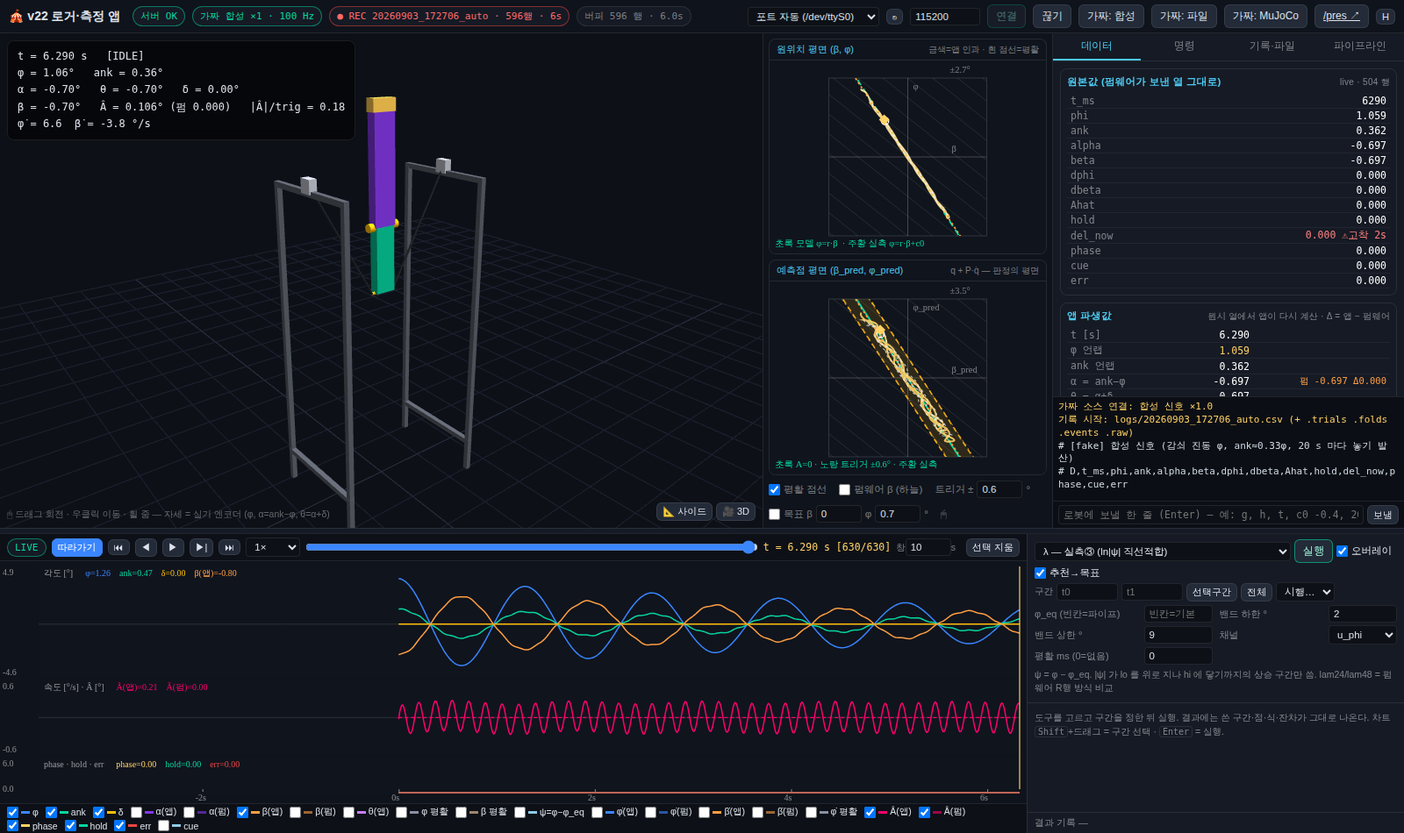
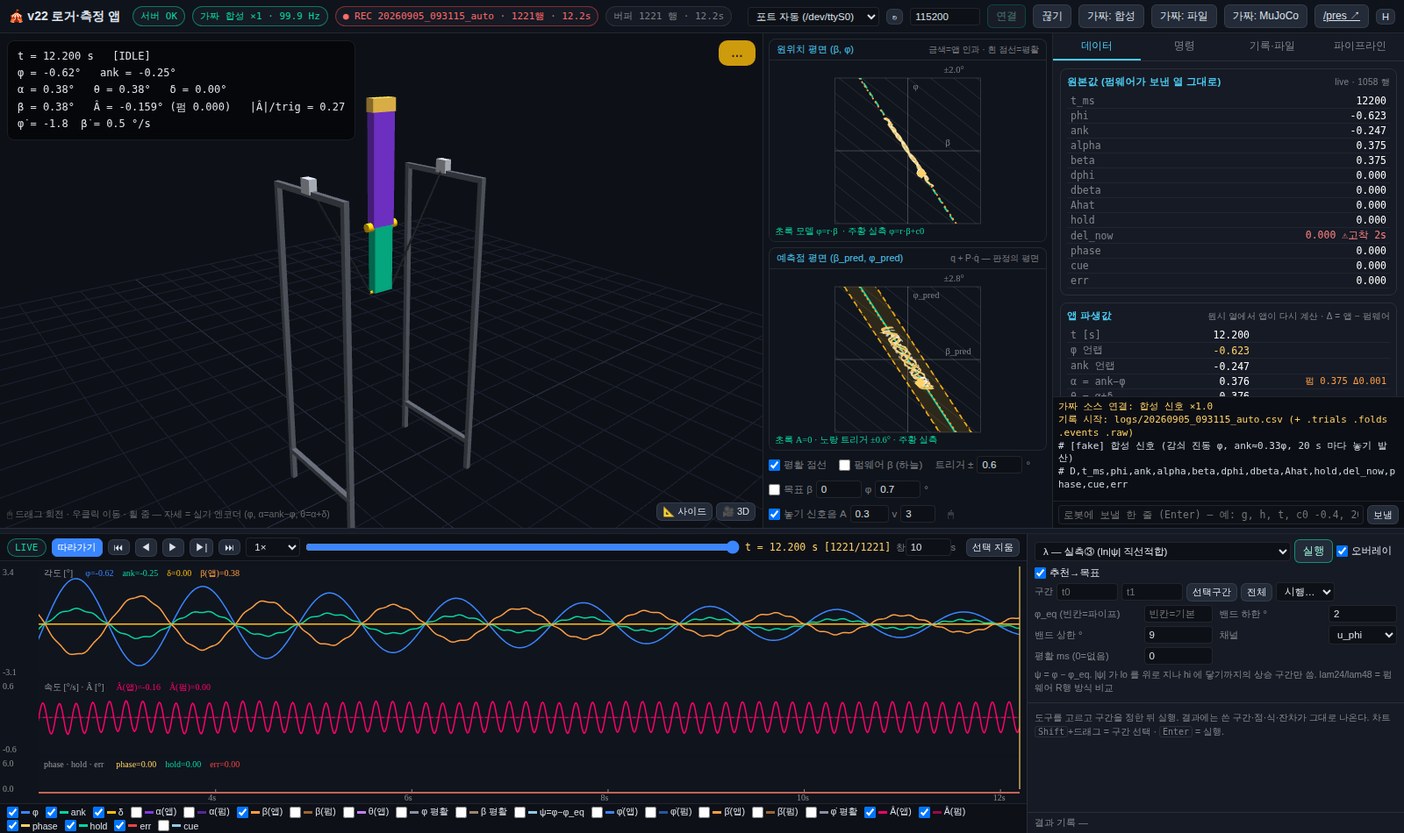
v22_raw v3: fphi/fank upright conversion, g guarantees torque, FALLA + stat counters; app release cue (beep)
Real-robot first connection findings (2026-09-05):
- firmware alpha was 180 deg off (app ank_off only affects the app) -> fphi/fank params (+180, wrap)
- v2 enabled torque only after a fall, so incremental-fold goals went to a torque-off motor -> g now
  restores home/torque like hangcal torqueRestoreHere (refuses only if the position read returns 0)
- E,FALL now followed by E,FALLA (alpha); '# stat' line every 5 s and in 't': loop_max, dxl_max,
  dxl_fail, wr_fail. No safety devices added (user policy: verify basic behavior first)
- app: release cue in lg_panels (logger + lab): target reached or |Ahat|<A, hand still for 0.3 s ->
  two beeps + green banner; re-beeps after E,GO; judges only, sends nothing
- firmware/hostcheck: g++ stub syntax check for the .ino (toolchain unavailable here)
- commands.json / mujoco_source: fphi, fank params; docs (bring-up 4-1, 4-5, troubleshooting, README, CLAUDE.md x2)

Claude-Session: https://claude.ai/code/session_01R1tYTbHm1MpVPBUC4nDtYR

diff --git a/v22_logger/static/lg_panels.js b/v22_logger/static/lg_panels.js
@@ -395,6 +395,35 @@ s_*     = 중심 이동평균(smooth_ms) + 중앙차분 (비인과, 지연 0)`;
     window.addEventListener("mouseup", () => { if (d0) { LG.store.set("bottomH", parseInt(getComputedStyle(document.documentElement).getPropertyValue("--bottomH")) || null); d0 = null; } });
   })();
 
+  // ================= 놓기 신호음 (g → 삐 → 놓기) =================
+  // 손에 든 채 조건이 0.3 s 유지되면 삐 두 번 — 그때 놓는다. 조건: 목표 십자선 ON 이면 목표 ±0.2° + 손 멎음, 아니면 |Â| < A + 손 멎음.
+  // 펌웨어 GO(E행) 가 오면 다시 한 번 울린다 (g 를 누른 뒤의 신호가 진짜 신호). 판단만 하고 로봇에는 아무것도 보내지 않는다.
+  const CUE = { since: 0, beeped: false, ctx: null, evN: -1 };
+  function audio() { try { if (!CUE.ctx) CUE.ctx = new (window.AudioContext || window.webkitAudioContext)(); if (CUE.ctx.state === "suspended") CUE.ctx.resume(); } catch (e) {} return CUE.ctx; }
+  document.addEventListener("pointerdown", () => audio(), true);
+  LG.beep = function (n) {
+    const c = audio(); if (!c) return; let t = c.currentTime + 0.01;
+    for (let k = 0; k < (n || 2); k++) { const o = c.createOscillator(), g = c.createGain(); o.type = "square"; o.frequency.value = k ? 1320 : 880; o.connect(g); g.connect(c.destination);
+      g.gain.setValueAtTime(0.0001, t); g.gain.exponentialRampToValueAtTime(0.35, t + 0.01); g.gain.exponentialRampToValueAtTime(0.0001, t + 0.13); o.start(t); o.stop(t + 0.14); t += 0.17; }
+  };
+  function cueTick(i, p) {
+    const box = el("goCue"); if (!box) return;
+    if (!el("cBeep") || !el("cBeep").checked || !LG.link.connected || !LG.follow) { box.className = ""; box.textContent = ""; CUE.since = 0; return; }
+    const ev = LG.aux.events || []; if (ev.length !== CUE.evN) { if (CUE.evN >= 0 && ev.length && ev[ev.length - 1][1] === "GO") CUE.beeped = false; CUE.evN = ev.length; }
+    const A = LG.val("a_Ahat", i), vf = Math.abs(LG.val("a_dphi", i)), vb = Math.abs(LG.val("a_dbeta", i));
+    const aOk = +el("iBeepA").value || 0.3, vOk = +el("iBeepV").value || 3, still = vf < vOk && vb < vOk;
+    let ready, what;
+    if (el("cTgt").checked) { const db = LG.val("a_beta", i) - (+el("iTgtB").value || 0), df = p.phi - (+el("iTgtF").value || 0); ready = Math.abs(db) < 0.2 && Math.abs(df) < 0.2 && still; what = `목표 Δβ ${fmt(db)} Δφ ${fmt(df)}`; }
+    else { ready = isFinite(A) && Math.abs(A) < aOk && still; what = `|Â| ${fmt(Math.abs(A))} < ${aOk}`; }
+    const ph = LG.val("phase", i), armed = isFinite(ph) && (ph | 0) <= 2;
+    const now = performance.now();
+    if (!ready) { CUE.since = 0; CUE.beeped = false; box.className = "wait"; box.textContent = `잡고 멎기 · ${what}${still ? "" : " · 손 흔들림"}`; return; }
+    if (!CUE.since) CUE.since = now;
+    if (now - CUE.since < 300) { box.className = "wait"; box.textContent = "…"; return; }
+    box.className = "on"; box.textContent = armed ? "● 놓기!" : "● 놓기 (비무장 — g 먼저?)";
+    if (!CUE.beeped) { CUE.beeped = true; LG.beep(2); }
+  }
+
   // ================= 프레임 루프 =================
   let lastRead = 0;
   function frame() {
@@ -411,6 +440,7 @@ s_*     = 중심 이동평균(smooth_ms) + 중앙차분 (비인과, 지연 0)`;
         if (el("cTgt").checked) { const tb = +el("iTgtB").value || 0, tf = +el("iTgtF").value || 0, db = LG.val("a_beta", i) - tb, df = p.phi - tf;
           tgt = `\n목표 (β ${tb.toFixed(1)}, φ ${tf.toFixed(1)}) 까지  Δβ ${db >= 0 ? "+" : ""}${fmt(db)}  Δφ ${df >= 0 ? "+" : ""}${fmt(df)}  ${Math.abs(db) < 0.2 && Math.abs(df) < 0.2 ? "● 놓아도 됨" : "○"}`; }
         el("ov3d").textContent = `t = ${fmt(LG.tOf(i), 3)} s   [${isFinite(ph) ? LG.phaseName(ph) : "—"}]\nφ = ${fmt(p.phi)}°   ank = ${fmt(LG.val("u_ank", i))}°\nα = ${fmt(p.alpha)}°   θ = ${fmt(p.theta)}°   δ = ${fmt(LG.val("del", i))}°\nβ = ${fmt(LG.val("a_beta", i))}°   Â = ${fmt(A, 3)}° (펌 ${fmt(Af, 3)})   |Â|/trig = ${fmt(Math.abs(A) / LG.trig, 2)}\nφ̇ = ${fmt(LG.val("a_dphi", i), 1)}  β̇ = ${fmt(LG.val("a_dbeta", i), 1)} °/s` + tgt;
+        cueTick(i, p);
         el("tTime").textContent = `t = ${fmt(LG.tOf(i), 3)} s  [${i + 1}/${LG.ds.n}]`;
         if (LG.follow) el("sIdx").value = LG.ds.n - 1; else el("sIdx").value = i;
         updateTables();

diff --git a/v22_logger/static/logger.html b/v22_logger/static/logger.html
@@ -101,6 +101,7 @@ body.hide .right,body.hide .an{display:none}
 body.hide .main{grid-template-columns:minmax(0,1fr) 380px}
 body.hide .bottom{grid-template-columns:minmax(0,1fr)}
 kbd{font-family:Consolas,monospace;font-size:10px;border:1px solid var(--border);border-radius:3px;padding:0 3px;color:var(--dim)}
+#goCue{position:absolute;right:8px;top:8px;padding:6px 14px;border-radius:10px;font:700 20px/1.2 "Segoe UI","Malgun Gothic",sans-serif;display:none;pointer-events:none;white-space:nowrap}#goCue.on{display:block;background:rgba(6,214,160,.92);color:#04281c}#goCue.wait{display:block;background:rgba(255,190,11,.8);color:#3a2a00;font-size:14px;font-weight:600}
 </style>
 </head>
 <body>
@@ -127,6 +128,7 @@ kbd{font-family:Consolas,monospace;font-size:10px;border:1px solid var(--border)
  <div class="sim">
   <canvas id="c3d"></canvas>
   <div id="ov3d"></div>
+  <div id="goCue"></div>
   <div class="simhint">🖱 드래그 회전 · 우클릭 이동 · 휠 줌 — 자세 = 실기 엔코더 (φ, α=ank−φ, θ=α+δ)</div>
   <div class="simbtns"><button class="btn sm" id="bCamSide">📐 사이드</button><button class="btn sm" id="bCamIso">🎥 3D</button></div>
  </div>
@@ -138,6 +140,7 @@ kbd{font-family:Consolas,monospace;font-size:10px;border:1px solid var(--border)
    <label class="chk"><input type="checkbox" id="cPlFw">펌웨어 β (하늘)</label>
    <label class="chk">트리거 ±<input id="iTrig" type="number" value="0.6" step="0.1" style="width:52px">°</label>
    <label class="chk" title="놓기 목표점 — 평면에 십자선, 3D 판독에 목표까지 Δ"><input type="checkbox" id="cTgt">목표 β<input id="iTgtB" type="number" value="0" step="0.1" style="width:52px"> φ<input id="iTgtF" type="number" value="0.7" step="0.1" style="width:52px">°</label>
+   <label class="chk" title="놓기 신호음 — 조건이 0.3 s 유지되면 삐 두 번, 그때 놓는다. 조건: 목표 십자선이 켜져 있으면 목표 ±0.2° 도달 + 손 멎음(|φ̇|,|β̇| < v), 아니면 |Â| < A + 손 멎음. g(무장) 뒤 다시 한 번 울린다"><input type="checkbox" id="cBeep" checked>놓기 신호음 A<input id="iBeepA" type="number" value="0.3" step="0.1" style="width:44px"> v<input id="iBeepV" type="number" value="3" step="1" style="width:40px"></label>
    <span title="휠 줌 · 우클릭 이동 · 더블클릭 복귀">🖱</span>
   </div>
  </div>

diff --git a/v22_logger/static/lab.html b/v22_logger/static/lab.html
@@ -123,6 +123,7 @@ body.hide .bottom{grid-template-columns:minmax(0,.9fr) minmax(0,1.3fr)}
 kbd{font-family:Consolas,monospace;font-size:10px;border:1px solid var(--border);border-radius:3px;padding:0 3px;color:var(--dim)}
 dialog{border:1px solid #d9dee7;border-radius:10px;padding:14px 16px;font-size:12.5px}
 dialog textarea{width:520px;height:220px;font:11px Consolas,monospace}
+#goCue{position:absolute;right:8px;top:8px;padding:6px 14px;border-radius:10px;font:700 20px/1.2 "Segoe UI","Malgun Gothic",sans-serif;display:none;pointer-events:none;white-space:nowrap}#goCue.on{display:block;background:rgba(6,214,160,.92);color:#04281c}#goCue.wait{display:block;background:rgba(255,190,11,.8);color:#3a2a00;font-size:14px;font-weight:600}
 </style>
 </head>
 <body>
@@ -150,6 +151,7 @@ dialog textarea{width:520px;height:220px;font:11px Consolas,monospace}
  <div class="sim">
   <canvas id="c3d"></canvas>
   <div id="ov3d"></div>
+  <div id="goCue"></div>
   <div class="simhint">🖱 드래그 회전 · 우클릭 이동 · 휠 줌 — 자세 = 실기 엔코더</div>
   <div class="simbtns"><button class="btn sm" id="bCamSide">📐 사이드</button><button class="btn sm" id="bCamIso">🎥 3D</button></div>
  </div>
@@ -161,6 +163,7 @@ dialog textarea{width:520px;height:220px;font:11px Consolas,monospace}
    <label class="chk"><input type="checkbox" id="cPlFw">펌 β</label>
    <label class="chk">trig<input id="iTrig" type="number" value="0.6" step="0.1" style="width:48px"></label>
    <label class="chk" title="놓기 목표점 — 십자선, 3D 판독에 목표까지 Δ"><input type="checkbox" id="cTgt">목표 β<input id="iTgtB" type="number" value="0" step="0.1" style="width:48px"> φ<input id="iTgtF" type="number" value="0.7" step="0.1" style="width:48px"></label>
+   <label class="chk" title="놓기 신호음 — 조건이 0.3 s 유지되면 삐 두 번, 그때 놓는다. 조건: 목표 십자선이 켜져 있으면 목표 ±0.2° 도달 + 손 멎음(|φ̇|,|β̇| < v), 아니면 |Â| < A + 손 멎음. g(무장) 뒤 다시 한 번 울린다"><input type="checkbox" id="cBeep" checked>놓기 신호음 A<input id="iBeepA" type="number" value="0.3" step="0.1" style="width:44px"> v<input id="iBeepV" type="number" value="3" step="1" style="width:40px"></label>
   </div>
  </div>
  <div class="xl">

diff --git a/v22_logger/firmware/hostcheck/Arduino.h b/v22_logger/firmware/hostcheck/Arduino.h
@@ -1,0 +1,20 @@
+// 호스트 문법검사용 최소 스텁 (OpenCR + Dynamixel2Arduino API 표면만)
+#pragma once
+#include <stdint.h>
+#include <string.h>
+#include <stdlib.h>
+#include <math.h>
+#define OUTPUT 1
+#define HIGH 1
+#define LOW 0
+#define HEX 16
+#define BDPIN_DXL_PWR_EN 32
+void pinMode(int, int); void digitalWrite(int, int); void delay(unsigned long); void delayMicroseconds(unsigned int);
+unsigned long millis(); unsigned long micros();
+struct HardwareSerial {
+  void begin(unsigned long); int available(); int read();
+  size_t print(const char*); size_t print(char); size_t print(int); size_t print(unsigned int); size_t print(long); size_t print(unsigned long); size_t print(float, int = 2); size_t print(double, int = 2);
+  size_t println(); size_t println(const char*); size_t println(char); size_t println(int); size_t println(unsigned int); size_t println(long); size_t println(unsigned long); size_t println(float, int = 2); size_t println(double, int = 2);
+  size_t print(int, int); size_t println(int, int); size_t print(long, int); size_t println(long, int);
+};
+extern HardwareSerial Serial, Serial3;

diff --git a/v22_logger/firmware/hostcheck/Dynamixel2Arduino.h b/v22_logger/firmware/hostcheck/Dynamixel2Arduino.h
@@ -1,0 +1,13 @@
+#pragma once
+#include "Arduino.h"
+namespace ControlTableItem { enum { RETURN_DELAY_TIME, PROFILE_VELOCITY, PROFILE_ACCELERATION, CURRENT_LIMIT, HARDWARE_ERROR_STATUS, PRESENT_INPUT_VOLTAGE, PRESENT_CURRENT, PRESENT_POSITION, GOAL_POSITION, TORQUE_ENABLE }; }
+enum { OP_EXTENDED_POSITION = 4, OP_POSITION = 3, OP_CURRENT = 0 };
+struct Dynamixel2Arduino {
+  Dynamixel2Arduino(HardwareSerial&, int);
+  void setPortProtocolVersion(float); void begin(unsigned long); bool ping(uint8_t);
+  bool torqueOn(uint8_t); bool torqueOff(uint8_t); bool setOperatingMode(uint8_t, uint8_t);
+  bool writeControlTableItem(uint8_t item, uint8_t id, int32_t data, uint32_t timeout = 10);
+  int32_t readControlTableItem(uint8_t item, uint8_t id, uint32_t timeout = 10);
+  float getPresentPosition(uint8_t id, uint8_t unit = 0); bool setGoalPosition(uint8_t id, float value, uint8_t unit = 0);
+  bool getTorqueEnableStat(uint8_t id);
+};

diff --git a/v22_logger/mujoco_source.py b/v22_logger/mujoco_source.py
@@ -70,6 +70,8 @@ PARAM_TABLE = [
     ("wf", 0.1945, 0.0, 2.0, "수동 w φ̇"),
     ("wb", 0.3049, 0.0, 2.0, "수동 w β̇"),
     ("p2r", 0.4285, 0.05, 0.95, "β = α + P2R·δ"),
+    ("fphi", 0.0, 0.0, 1.0, "φ 직립 변환 +180 (가상 로봇은 무시)"),
+    ("fank", 0.0, 0.0, 1.0, "발목 직립 변환 +180 (가상 로봇은 무시)"),
     ("loghz", 100.0, 1.0, 200.0, "CSV 주기 [Hz]"),
     ("ftol", 2.0, 0.1, 10.0, "접기 도착 판정 [deg]"),
     ("ftmax", 300.0, 20.0, 800.0, "FOLD 상한 [ms]"),

diff --git a/v22_logger/firmware/hostcheck/_t.cpp b/v22_logger/firmware/hostcheck/_t.cpp
@@ -1,3 +1,4 @@
+#include "Arduino.h"
 /*
  * v22_raw.ino — v22 로거·측정 앱 전용 펌웨어 (원시값 스트리밍 + 접기 실험) — 2026-09-05 v3
  *   v3: fphi/fank(+180 직립 변환, 매달림 영점 뒤 세울 때) · g 가 토크를 반드시 켠다(꺼져 있으면 접기 명령이 허공에 갔다, hangcal torqueRestoreHere 계승)

diff --git a/v22_logger/firmware/hostcheck/SPI.h b/v22_logger/firmware/hostcheck/SPI.h
@@ -1,0 +1,7 @@
+#pragma once
+#include "Arduino.h"
+#define MSBFIRST 1
+#define SPI_MODE1 1
+struct SPISettings { SPISettings(unsigned long, int, int); };
+struct SPIClass { void begin(); void beginTransaction(SPISettings); void endTransaction(); uint16_t transfer16(uint16_t); };
+extern SPIClass SPI;

diff --git a/docs/v22_실물_브링업_절차_20260902.md b/docs/v22_실물_브링업_절차_20260902.md
@@ -45,8 +45,10 @@ python server.py --fake            ← 합성 신호로 화면 확인
 
 ## 3. 측정 전용 펌웨어 `v22_raw` 올리기 (선택 — 2 가 되면 언제든)
 
-`v22_logger/firmware/v22_raw/v22_raw.ino`. 제어(접기) 없음. 원시값 + 영점 전 14비트 원각 + 서보 tick 을 찍는다.
-**여기서는 컴파일을 못 해 봤다** (툴체인 다운로드가 막혀 있다). 호스트 문법검사만 통과. 실기 I/O 코드는 incremental_fold_min 에서 그대로다.
+`v22_logger/firmware/v22_raw/v22_raw.ino` (**v3, 2026-09-05**). 측정(mode 0) + 단일접기(mode 1) + 증분접기(mode 2). 원시값 + 영점 전 14비트 원각 + 서보 tick 을 찍는다.
+**여기서는 컴파일을 못 해 봤다** (툴체인 다운로드가 막혀 있다). 호스트 문법검사(`bash firmware/hostcheck/check.sh firmware/v22_raw/v22_raw.ino`)만 통과. 실기 I/O 코드는 incremental_fold_min 에서 그대로다.
+
+v3 에서 바뀐 것 (9/5 실기 관찰로): ① `fphi`/`fank` 직립 변환(아래 4-1) — 없으면 펌웨어 α 가 180° 틀어져 `g` 첫 루프에 FALL. ② **`g` 가 토크를 반드시 켠다** — v2 는 넘어진 뒤에만 켜서, 매달림 영점(토크 OFF) → 세움 → g 순서에서 접기 명령이 허공에 갔다("FOLD 는 찍히는데 로봇은 안 움직임"). ③ FALL 에 α 도 기록(`E,FALLA`). ④ 5 s 마다 `# stat loop_max … dxl_max … dxl_fail … wr_fail …` 계측 한 줄, `t` 에도. **안전장치(무장 유예·폴링 감속·폴링 중단 등)는 넣지 않았다** — 기본 동작을 먼저 본 뒤 하나씩 (사용자 방침 9/5).
 
 1. 아두이노 IDE: 보드 **OpenCR**, 라이브러리 **Dynamixel2Arduino** 설치 확인. 스케치 열고 **컴파일(검증)**. 오류가 나면 **오류 메시지 전체를 나에게** — 바로 고친다.
 2. 앱 「끊기」 → 업로드 → 앱 「연결」. 콘솔에 `# v22_raw — …` 배너와 `# D,…` 17열 헤더. 「명령」탭 프로파일을 **v22_raw** 로.
@@ -60,6 +62,7 @@ python server.py --fake            ← 합성 신호로 화면 확인
 - **u 토크해제** → 줄에 완전히 늘어뜨림 → 왼쪽에서 접근해 **완전히 멎으면 z** → 오른쪽에서 접근해 멎으면 **z** (v22_raw: 2단 원형 평균, 콘솔에 데드밴드 표시. hangcal 도 같은 2단).
 - 세운다. 원본값 phi 가 ±180 근처면 정상(φ 채널이 도는 것, 문서 66 §4). 앱 「파이프라인」탭 **phi_off = 180** 적용 → u_phi 가 0 근처. (hangcal 은 펌웨어 `fphi 1` 도 가능.)
 - 직립에서 u_phi·u_ank·a_alpha 전부 0 근처인지. 이 값이 c₀·φ_eq 의 기준이다 — 재조립하면 다시.
+- ★**펌웨어에도 같은 변환을 넣는다**: 콘솔 `fank 1`(발목이 180° 돌아 있을 때), φ 채널도 돌아 있으면 `fphi 1`. 앱의 ank_off/phi_off 는 앱 표시만 바꾸고 펌웨어 α·β·Â 는 못 바꾼다. 확인: 「데이터」탭 alpha 의 `펌 …  Δ…` 가 0 근처. 이걸 빼먹으면 `g` 첫 루프에 `E,FALL`(φ 는 멀쩡, `E,FALLA` 의 α 가 ±180).
 
 ### 4-2. 매달림 자유흔들기 (ω_n, ζ, c_φ) — 문서 16 정본과 대조
 - 토크 해제로 매달아 φ 4~5° 로 흔들고 손을 뗀다. 20~30 s 기록.
@@ -75,6 +78,16 @@ python server.py --fake            ← 합성 신호로 화면 확인
 - 10회 넘으면 **φ_eq 훑기**(방향별 λ 곡선의 교점) → 파이프라인 phi_eq 에 넣고 다시 시행 나누기 → 방향 갈림이 20 % 아래로 오는지.
 - **놓기 경계** 도구: 놓기점이 원위치 평면에 방향색으로 찍히고 r 고정 절편 c₀ 가 나온다. 다음 시행을 어디에 놓을지(경계에 수직으로 흩기) 평면에서 바로 본다.
 
+### 4-5. g → 삐 → 놓기 (놓기 신호음, 9/5)
+
+"g 직후 바로 놓는다"를 사람 타이밍에 맡기지 않는다. 앱(로거·측정실 왼쪽 위 「놓기 신호음」, 기본 ON)이 D행을 보고 **조건이 0.3 s 유지되면 삐 두 번**을 울리고 3D 창 오른쪽 위에 초록 「● 놓기!」를 띄운다. 그때 놓는다.
+
+- 조건: 목표 십자선이 켜져 있으면 **목표 ±0.2° 도달 + 손 멎음**(|φ̇|,|β̇| < v, 기본 3 °/s). 꺼져 있으면 **|Â| < A**(기본 0.3°) **+ 손 멎음**. 조건이 깨지면 노란 「잡고 멎기 · …」로 이유를 보인다.
+- 펌웨어 `E,GO` 가 오면 한 번 더 울린다 — g 를 누른 뒤의 신호가 진짜 신호. 무장(phase 0~2) 전이면 「● 놓기 (비무장 — g 먼저?)」.
+- 앱은 판단만 하고 로봇에 아무것도 보내지 않는다.
+
+증분접기 한 회: `mode 2` → 로봇을 세워 잡고 멎음 → **`g`**(토크 ON·무장; 콘솔에 `# 토크 ON`) → 삐 → 놓기 → 관찰 → `h`. FOLD 는 찍히는데 안 움직이면 `t` 의 `dxl_fail`/`wr_fail` 부터.
+
 ## 5. 막히면
 
 | 증상 | 볼 것 |
@@ -84,6 +97,9 @@ python server.py --fake            ← 합성 신호로 화면 확인
 | `헤더 없이 온다` | m 두 번 / hdr. 열 수가 13 보다 적으면 행이 버려진다 — 헤더가 꼭 필요 |
 | 3D 가 반대로 움직임 | §2-5 부호 규약. 펌웨어 `PHI_SIGN`/`ANK_SIGN` |
 | 매달림에서 궤적이 ±180 사이를 튐 | 언랩·스냅이 켜져 있는지(파이프라인 탭). phi_off 180 |
+| `g` 직후 `E,FALL` (φ 는 작음) | `E,FALLA` 의 α 를 본다. ±180 근처면 `fank 1`(4-1). 그 외 30° 이상이면 영점(단계 0?) |
+| FOLD E행은 찍히는데 로봇이 안 움직임 | `t` → 모터 torque=ON 인지(v3 는 g 가 켠다), `dxl_fail`/`wr_fail` 이 늘면 버스: 12 V 배터리 → 4핀 커넥터 → 보드레이트(57600 이면 1 Mbps 로) |
+| `z` 에 "영점 순간 모터가 안 읽혔다", δ 가 0 에 붙음 | 위와 같은 버스 문제. err 열 16(dxl). 읽기가 0 을 돌려주는 것 |
 | logs 에 파일 없음 | 첫 D행이 와야 파일이 생긴다. `● REC` 칩 확인 |
 | 서버가 시작하며 죽음 | `pip install pyserial aiohttp numpy scipy`; 포트 8220 점유면 `V22_PORT=8221` |
 

diff --git a/CLAUDE.md b/CLAUDE.md
@@ -416,6 +416,7 @@ gain_scale 점진 검증 → FWE 이식.
 ---
 
 ## 10. 작업 인계 (최신 기록부터; 새 작업 시 한 줄 추가, 상세는 `docs/..._작업기록_YYYYMMDD.md`)
+- **2026-09-05**: 실기 첫 연결(트윈 OK) 뒤 증분접기 시험 실패 원인 셋 확정 — ① 펌웨어에 +180 직립 변환이 없어 α 180° 틀어짐(`g` 첫 루프 FALL) → v22_raw v3 `fphi`/`fank`; ② v2 는 넘어진 뒤에만 토크를 켜서 접기 명령이 허공에 감 → `g` 가 토크 보장; ③ DXL 읽기 0 반환(버스: 12 V·커넥터·보드레이트) → δ 0 고정. hangcal 의 "1초 뒤 손 안 접힘"은 무장 유예(200 ms) 뒤 트리거. **안전장치는 넣지 않는다**(사용자 방침, 기본 동작 확인 뒤 하나씩). FALL 에 α(`E,FALLA`)·`# stat` 계측만. 앱 「놓기 신호음」(조건 0.3 s 유지 → 삐, g→삐→놓기 절차, 브링업 §4-5). 펌웨어 호스트 문법검사 `firmware/hostcheck/`.
 - **2026-09-03 (c)**: 사용자 지적 셋 반영 — ① 무대 큐는 화면 선택만, 로봇 조작은 라이브(대본은 리허설 영상에만). ② 실사 씬은 /pres 구도(y 607~1407 띠 레터박스) 그대로 복귀, 바꾼 건 사람 까딱(추적 동기 반복)과 선 굵기뿐(`lg_show.js layoutVideo`). ③ `/lab` 을 로거 앱 상위집합으로 재작성(`lab.html` 은 logger 의 모든 id 보유, `lg_panels.js` 그대로 + `lg_lab.js` 가 창·선택·커서를 공유) — 엑셀 시간 차트 드래그 = 분석 구간, 도구 오버레이·phase 띠 겹침, XY 추천 → 십자선. 측정 과정 리허설 `video_lab_v22.py` → `video_out/v22_lab_rehearsal(_small).mp4` 로 검토.
 - **2026-09-03 (b)**: ★발표 무대 3창 — `/deck` 조종석(큐 8개·질의응답·갤러리·로봇), `/show` 무대(세로 모니터, 서버 장면 방송으로 한 창 전환: 실사 휘청 반복+모델 동기 오버랩·트윈+평면·ε* 라이브 기하·HUD), `/lab` 측정실(엑셀식 표·차트·추세선 선형/지수→λ/감쇠사인/놓기점→r/추천, TSV 복사). 발표 시나리오 개정(문제 강화·이론 3씬·FWE 생략·증분접기 직행, 씬 표는 `docs/v22_발표_무대_운용_20260903.md`). 실사 광대 추적 `tools/track_jultagi.py` → `jultagi_trace.json`.
 - **2026-09-03**: v22 리허설 영상 — `v22_logger/mujoco_source.py`(v21 SimEngine + v22_raw v2 펌웨어 로직 파이썬 이식, 사람 동작 `sim release β φ`) + `video_v22.py`(Playwright 가 앱을 실제 마우스로 조작·녹화, 자막/사람동작 카드) → `video_out/v22_rehearsal.mp4` (연결·영점 → λ 3회 → r 추천 루프 6회 → γ 단일접기 3회·성적표·gam 전송 → mode 2 증분접기). 시행 나누기 개선: 정지=φ+발목, 놓기점=정지 꼬리 1 s 중앙값, 손 이동은 끝속도(<0.35·λ·Δφ)로 제외 — 0822 18/18 유지. ★추천 도구 부호 정정: 선 위(Â>0)에서 놓으면 φ 는 −로 넘어진다(9/2 합성세계 r_u=+0.7 이 거꾸로) + ω 공통 적합(om_hat) + regula falsi → MuJoCo 폐루프 12회 r̂ −1.656±0.024 (모델 −1.645). 교훈: g 직후 바로 놓기(손 안 접기 연쇄), c0 도 펌웨어에. tests_v22 에 가상 로봇 절, e2e 에 MuJoCo 버튼.

diff --git a/v22_logger/README_v22.md b/v22_logger/README_v22.md
@@ -84,6 +84,14 @@ python server.py --fake "../lambda test/0822_lambda_test.csv" --speed 2
 - 데이터는 바이너리 프레임 `[u32 헤더길이][JSON][float32 열우선]` — `ds_full`(교체) / `ds_append`(증분).
 - `serial_bridge.py`: 포트 자동탐지·D/R/F/E/# 분류(`LineSink`)·4파일 기록기(`Recorder`)·`SerialSource`/`FakeSource`.
 
+## 펌웨어 v22_raw v3 · 놓기 신호음 (2026-09-05, 실기 첫 연결에서)
+
+- 실기 관찰: 트윈은 맞는데 `g` 직후 `E,FALL`(φ −0.59) → 펌웨어 α 가 180° 틀어짐(앱 ank_off 180 은 앱만 바꾼다) → **`fphi`/`fank` 직립 변환** 추가.
+  `z` 에 "모터가 안 읽혔다", δ 0 고정 → DXL 읽기가 0 반환(버스). FOLD 는 찍히는데 로봇이 안 움직임 → v2 는 넘어진 뒤에만 토크를 켜서 **`g` 가 토크를 반드시 켜게** 고침(hangcal `torqueRestoreHere` 계승).
+  hangcal 에서 "g 누르고 1 초 뒤 손 안에서 접힘" = 무장 유예(200 ms) 동안 `(유예) 문턱을 넘었지만…` 을 찍다가 유예 끝에 접은 것 — 손에 든 채 Â 가 이미 문턱 밖이었다.
+- v3 는 **안전장치를 넣지 않았다**(사용자 방침): FALL 에 α 기록(`E,FALLA`), 5 s 마다 `# stat loop_max/dxl_max/dxl_fail/wr_fail` 계측만. 호스트 문법검사 `bash firmware/hostcheck/check.sh firmware/v22_raw/v22_raw.ino`.
+- 앱 **놓기 신호음**(`lg_panels.js` cueTick, 로거·측정실): 목표 도달(십자선 ON) 또는 |Â| < A, 손 멎음(|φ̇|,|β̇| < v)이 0.3 s 유지되면 삐 두 번 + 「● 놓기!」, `E,GO` 뒤 한 번 더. 판단만, 로봇에 안 보낸다. 절차 `docs/v22_실물_브링업_절차_20260902.md` §4-5.
+
 ## 발표 창 셋 — 조종석 `/deck` · 무대 `/show` · 측정실 `/lab` (2026-09-03)
 
 - **`/deck` 조종석** (노트북): 큐 8개(발표 시나리오 9/3 확정)·질의응답 버튼·옛 버전 갤러리(V1~V18, `/repo/` 마운트)·로봇 명령·상태 판독·트윈 미리보기.

diff --git a/v22_logger/CLAUDE.md b/v22_logger/CLAUDE.md
@@ -33,3 +33,5 @@ v21 발표 시뮬레이터는 `/pres` 로 그대로 살아 있다 (`static/index
 - 열 이름은 펌웨어가 준 그대로다. canonical 접근은 `LG.col('phi')` / `ds.col('phi', i)` (별칭표 `ALIASES`).
 - 라이브 append 와 rebuild 는 같은 결과여야 한다 (tests_v22 결정론 시험).
 - 서버 프로세스 정리는 포트 기준 (`fuser -k 8220/tcp`).
+- 펌웨어 `firmware/v22_raw/v22_raw.ino` 는 여기서 컴파일 못 한다 — 고치면 `bash firmware/hostcheck/check.sh firmware/v22_raw/v22_raw.ino`(g++ 스텁 문법검사)를 돌리고, 실기 컴파일 오류는 사용자가 붙여 준다.
+- **펌웨어에 안전장치를 임의로 넣지 않는다** (9/5 방침): 기본 동작이 실기에서 확인된 뒤 사용자와 하나씩. hangcal 의 무장 유예·폴링 중단은 "명령은 찍히는데 로봇은 안 움직임/1초 뒤 접힘"의 원인이었다.
